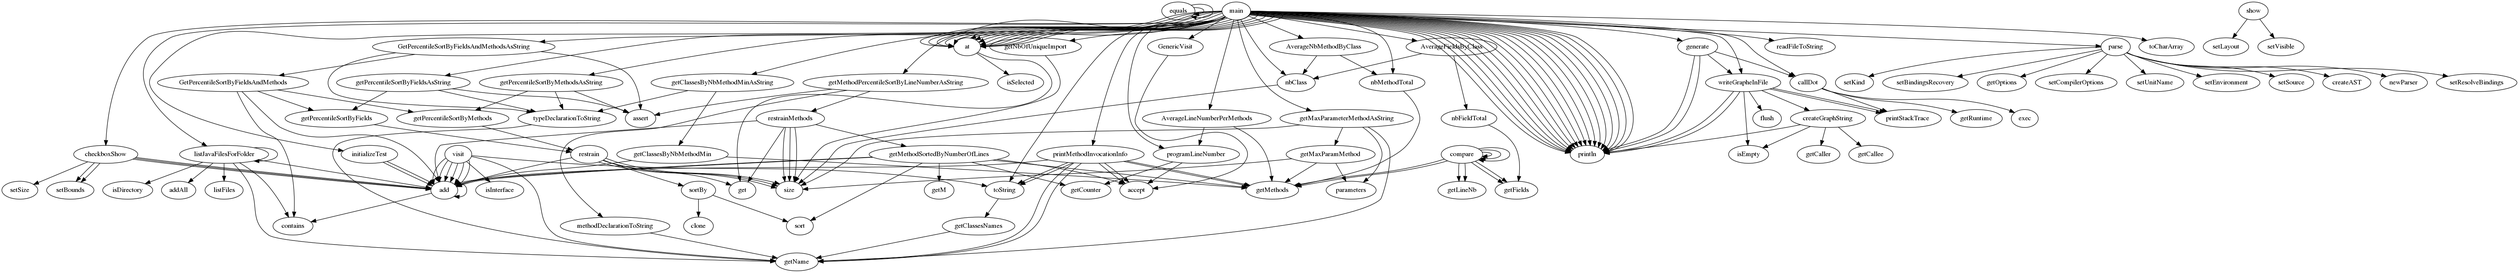
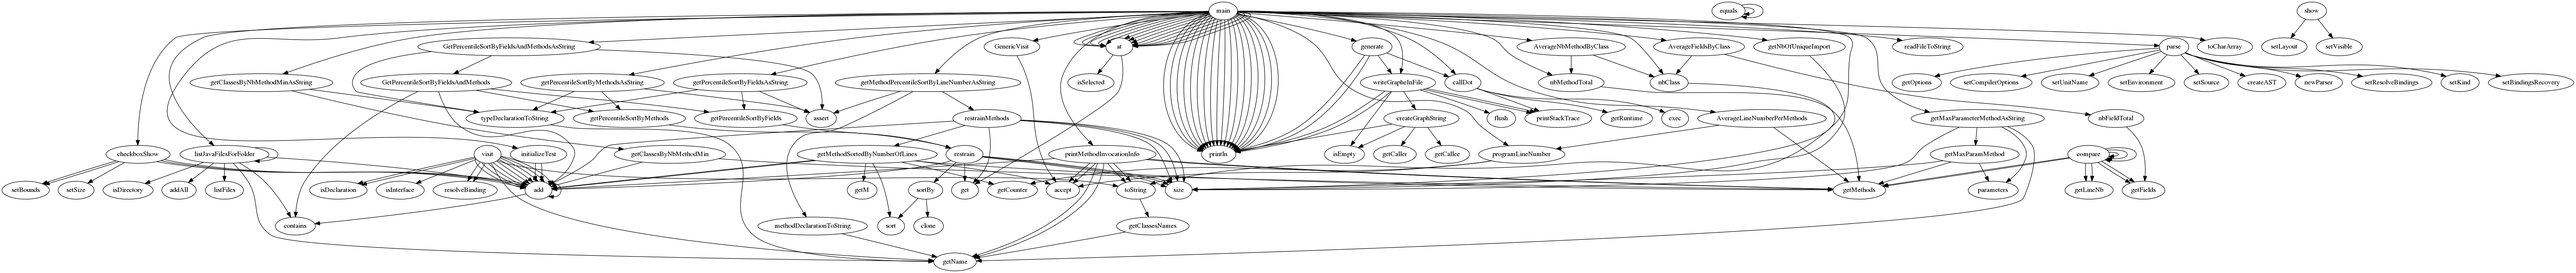
evo restruct

diff --git a/evolution/tp3/step2/tpnoté/src/FieldAccessVisitor.java b/evolution/tp3/step2/tpnoté/src/FieldAccessVisitor.java
@@ -1,0 +1,25 @@
+
+
+import java.util.ArrayList;
+import java.util.List;
+
+import org.eclipse.jdt.core.dom.ASTVisitor;
+import org.eclipse.jdt.core.dom.FieldAccess;
+import org.eclipse.jdt.core.dom.IVariableBinding;
+import org.eclipse.jdt.core.dom.SimpleName;
+
+public class FieldAccessVisitor extends ASTVisitor {
+	List<SimpleName> fields = new ArrayList<SimpleName>();
+
+	public boolean visit(SimpleName node) {
+		if (!node.isDeclaration()
+				&& node.resolveBinding() instanceof IVariableBinding) {
+			fields.add(node);
+		}
+		return super.visit(node);
+	}
+
+	public List<SimpleName> getFields() {
+		return fields;
+	}
+}

diff --git a/evolution/tp3/step2/tpnoté/testGraphDot/src/testGraphDot/CallGraphGenerator.java b/evolution/tp3/step2/tpnoté/testGraphDot/src/testGraphDot/CallGraphGenerator.java
@@ -6,6 +6,8 @@ import java.io.PrintWriter;
 import java.io.UnsupportedEncodingException;
 import java.util.ArrayList;
 
+import SourceAnalyser.Transition;
+
 /**
  * 
  * @author rogliano

diff --git a/evolution/tp3/step2/tpnoté/src/SourceAnalyser/FieldAccessVisitor.java b/evolution/tp3/step2/tpnoté/src/SourceAnalyser/FieldAccessVisitor.java
@@ -1,4 +1,4 @@
-package step2;
+package SourceAnalyser;
 
 import java.util.ArrayList;
 import java.util.List;
